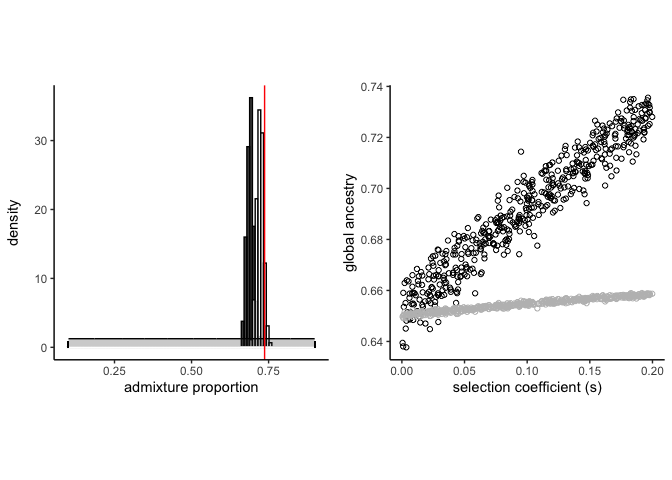
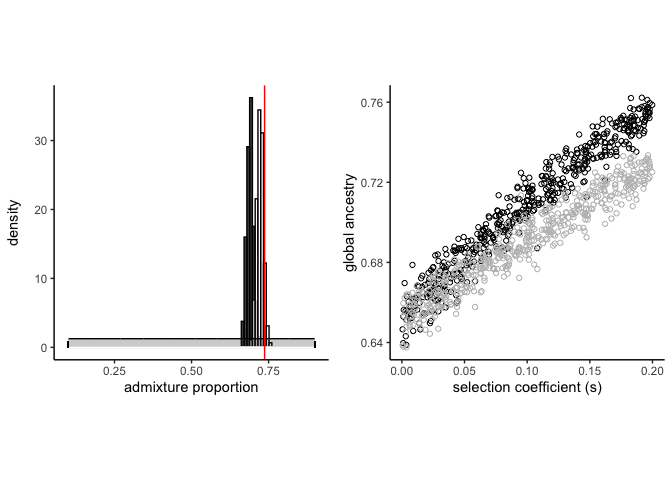
Add files via upload

diff --git a/figure_md/GlobalAncestry.md b/figure_md/GlobalAncestry.md
@@ -134,11 +134,9 @@ ggplot(ancestry_ancova_df, aes(s, global_ancestry, colour = model)) +
 ![](GlobalAncestry_files/figure-gfm/unnamed-chunk-6-1.png)<!-- -->
 
 ``` r
-whole_autosome$artificial_ancestry <- (whole_autosome$mean_chr1 * 0.08) + (whole_autosome$m * 0.92)
-
 ancestry_vs_selection <- ggplot(whole_autosome) +
-  geom_point(aes(x=s, y= global_ancestry), color = "black", shape = 1) +
-  geom_point(aes(x=s, y =artificial_ancestry), color = "grey", shape = 1) +
+  geom_point(aes(x=s, y= mean_chr1), color = "black", shape = 1) +
+  geom_point(aes(x=s, y =mean_restgenome), color = "grey", shape = 1) +
   xlab("selection coefficient (s)") +
   ylab("global ancestry") +
   theme_classic() +
